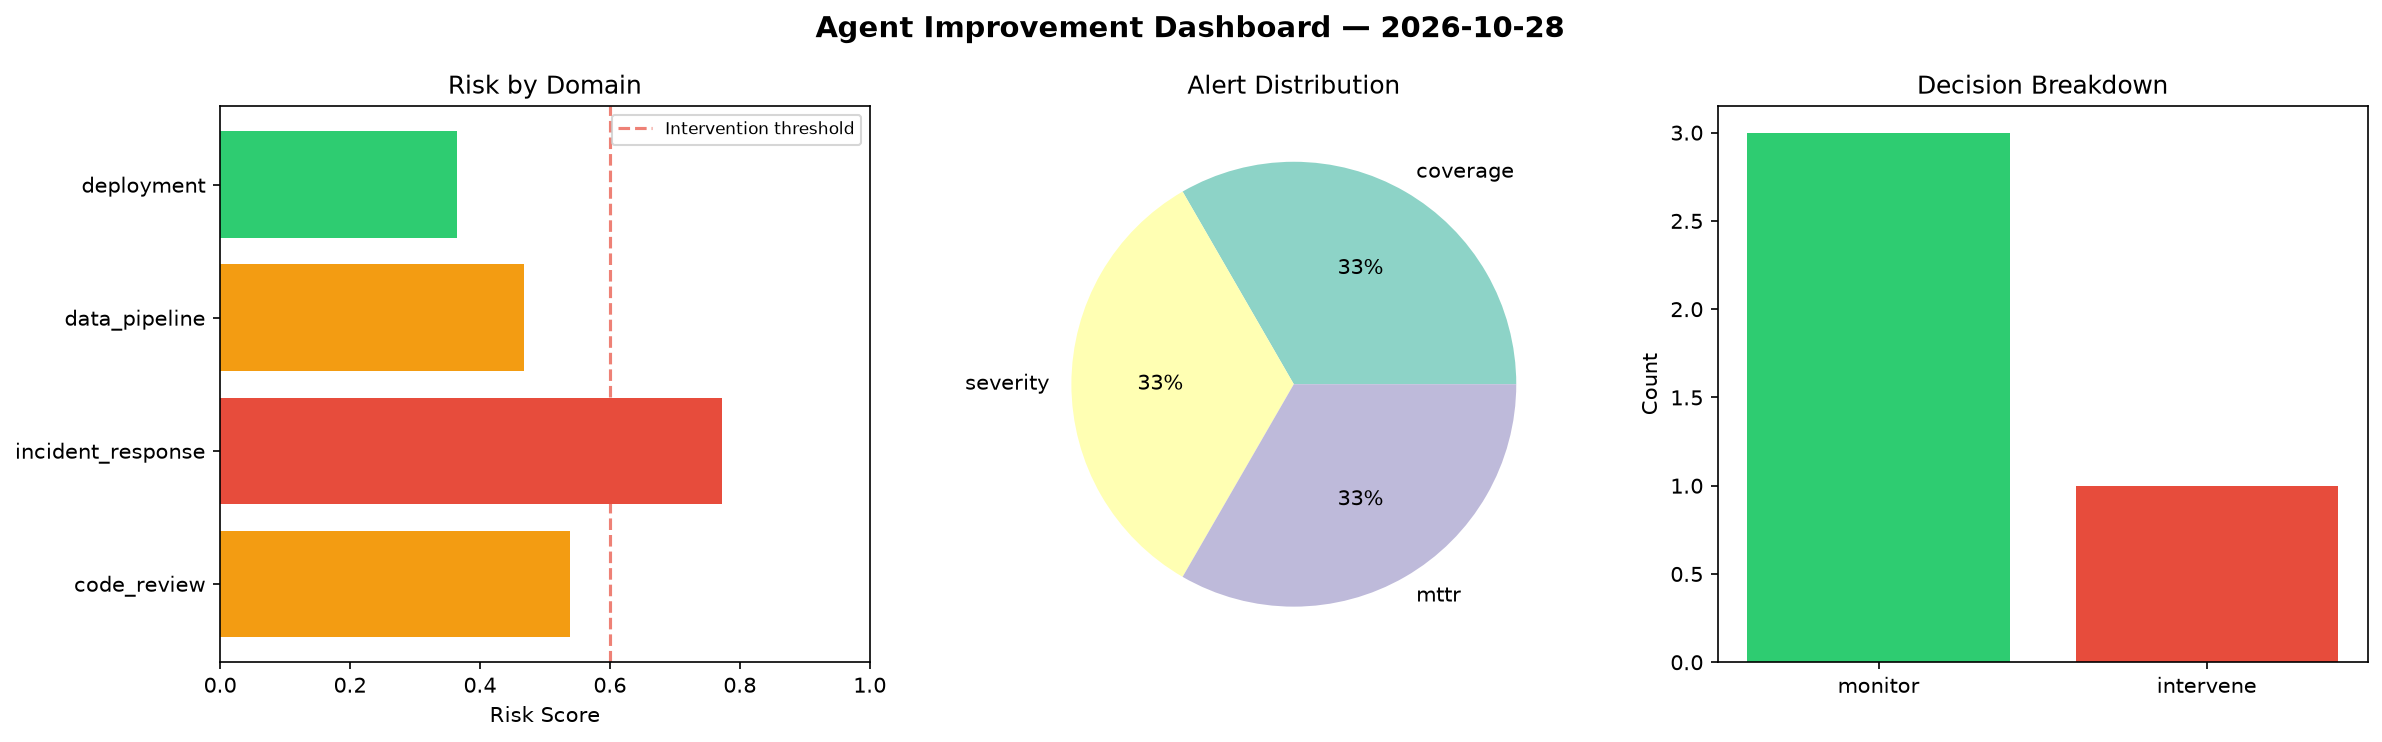
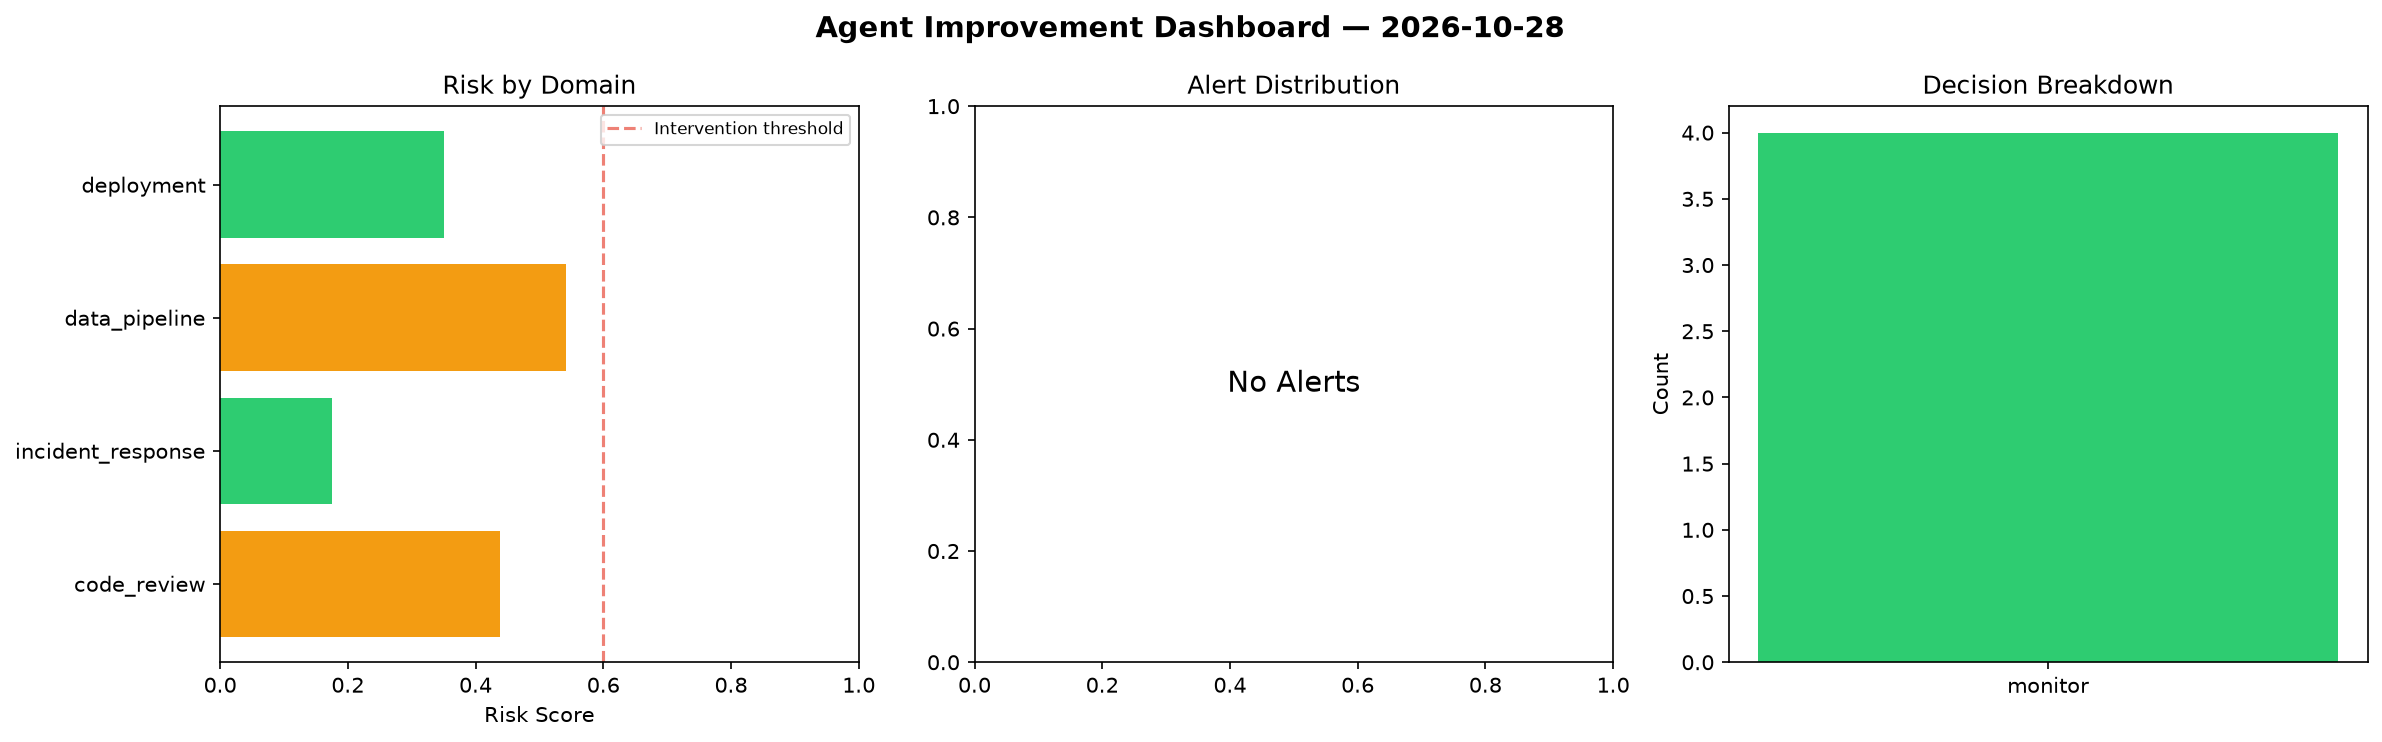
agent-improvement: daily cycle 2026-10-28T15:05

diff --git a/logs/2026-10-28.md b/logs/2026-10-28.md
@@ -1,6 +1,6 @@
 # Agent Improvement Report — 2026-10-28
 
-**Cycle ID:** `06d14ace` | **Avg Risk:** 0.5361 | **Interventions:** 1/4
+**Cycle ID:** `e5e01468` | **Avg Risk:** 0.3767 | **Interventions:** 0/4
 
 ![Dashboard](2026-10-28_dashboard.png)
 
@@ -10,18 +10,18 @@
 
 | Domain | Risk Score | Decision | Alerts |
 |--------|-----------|----------|--------|
-| code_review | 0.5387 | monitor | coverage |
-| incident_response | 0.7731 | intervene | severity, mttr |
-| data_pipeline | 0.468 | monitor | none |
-| deployment | 0.3646 | monitor | none |
+| code_review | 0.4385 | monitor | none |
+| incident_response | 0.1758 | monitor | none |
+| data_pipeline | 0.5412 | monitor | none |
+| deployment | 0.3512 | monitor | none |
 
 ## Delta vs Yesterday
 
 | Domain | Today | Yesterday | Change |
 |--------|-------|-----------|--------|
-| code_review | 0.5387 | 0.6835 | 📉 -21.2% |
-| incident_response | 0.7731 | 0.6584 | 📈 17.4% |
-| data_pipeline | 0.468 | 0.2532 | 📈 84.8% |
-| deployment | 0.3646 | 0.5892 | 📉 -38.1% |
+| code_review | 0.4385 | 0.6835 | 📉 -35.8% |
+| incident_response | 0.1758 | 0.6584 | 📉 -73.3% |
+| data_pipeline | 0.5412 | 0.2532 | 📈 113.7% |
+| deployment | 0.3512 | 0.5892 | 📉 -40.4% |
 
 **Refinement:** `{'adjustment': 'maintain', 'trend': 'improving', 'window': 4}`
